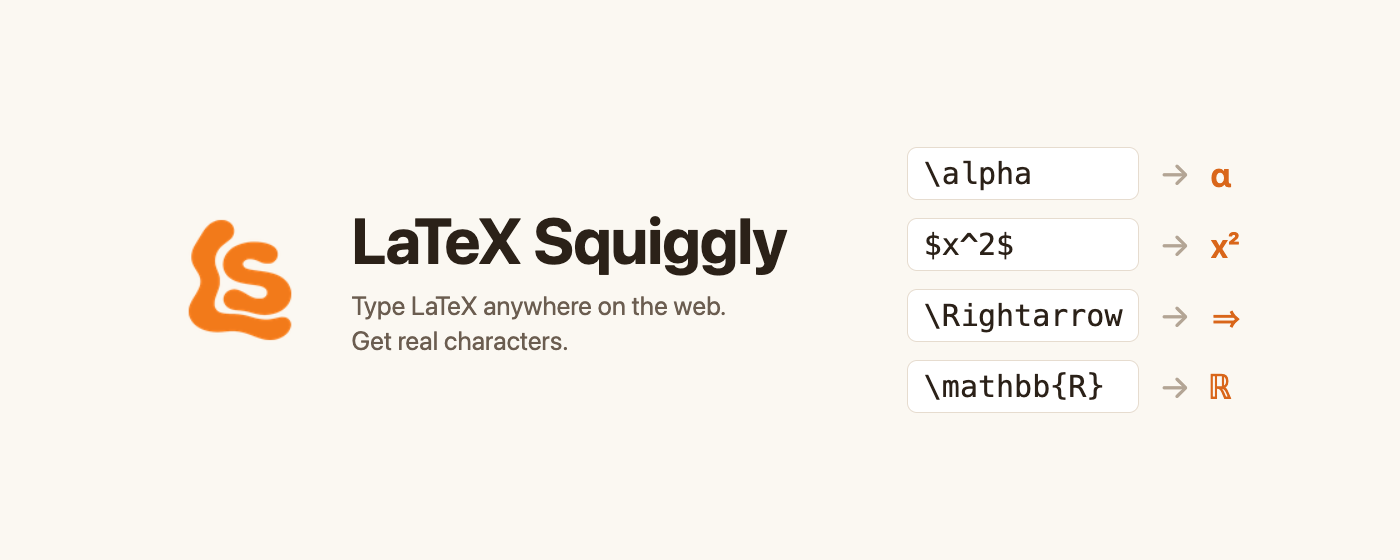
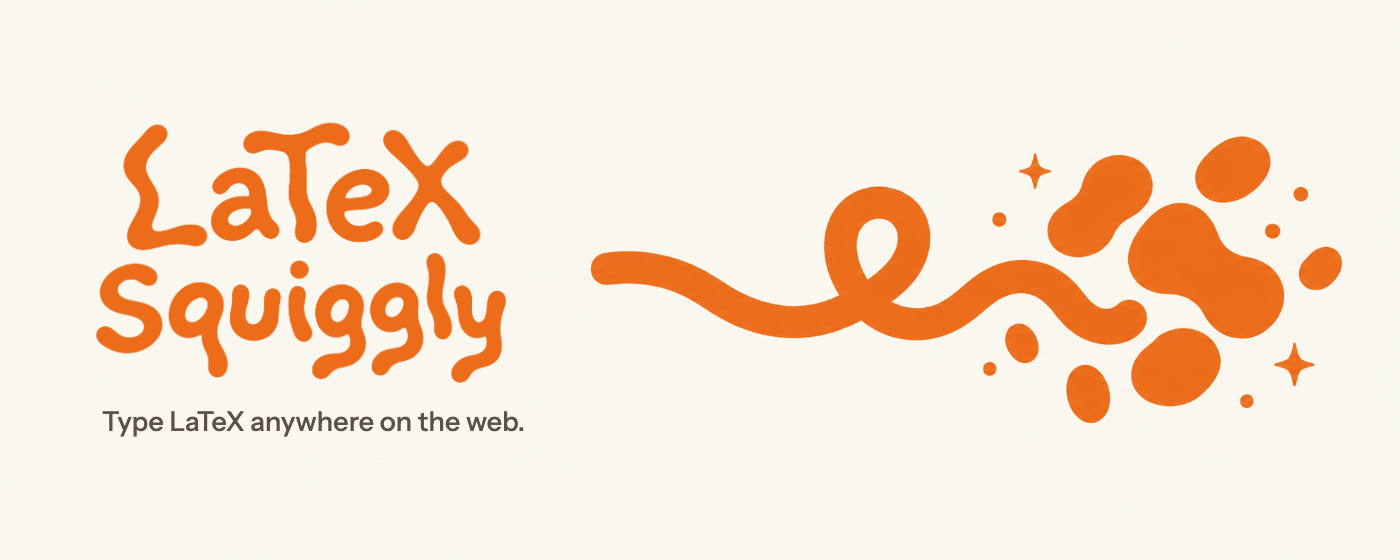
Add a kit for better store images, and a new marquee made with it
chrome/store/image-kit/ holds prompts for an image generator, the
reference images to attach to them, and the rules that keep the results
usable: no lettering in generated art, since generators garble it and a
wrong x² on a maths tool looks careless, and real screenshots only,
since the store treats invented features as misleading.

The marquee is the first result. The background is generated, and the
wordmark on it is the real one, keyed out of the app icon and inked in
the background's own orange so the two match.

Changed region(s): [[0.0614, 0.2125, 0.9829, 0.7589], [0.0614, 0.7286, 0.3686, 0.7893], [0.9214, 0.3339, 0.9521, 0.3643]]

diff --git a/chrome/store/image-kit/README.md b/chrome/store/image-kit/README.md
@@ -1,0 +1,123 @@
+# Store image kit
+
+Prompts and reference images for making better Chrome Web Store graphics with
+an image generator (ChatGPT, Gemini or Midjourney).
+
+The brand already has a strong look: the hand-drawn orange squiggly wordmark on
+warm cream paper. Everything here builds on that.
+
+## What is in this folder
+
+| Folder | Contents |
+|---|---|
+| `references/` | Images to attach to the generator as a style guide |
+| `current/` | The store images in use now, to compare against |
+| `generated/` | Put what the generator makes here |
+
+**References**
+
+| File | Attach it for |
+|---|---|
+| `1-wordmark-card.png` | The squiggly letter style and the paper colour. Attach to every prompt. |
+| `2-app-icon.png` | The same style, square |
+| `3-ls-mark.png` | The orange "LS" mark |
+| `4-product-screenshot.png` | What the product looks like, for the screenshot backgrounds |
+| `5-wordmark-transparent.png` | Not for the generator. The wordmark on a transparent background, 867 pixels wide, to place on finished images. |
+
+## Rules
+
+- **No text in generated images.** Generators garble lettering, and a wrong
+  `x²` or `\alpha` on a maths tool looks careless. Leave empty space, and add
+  the words afterwards.
+- **Screenshots stay real.** The Web Store treats screenshots of features the
+  extension does not have as misleading. Use the generator for backgrounds and
+  promo tiles only, then place the real screenshots on top.
+- **No other companies' apps.** No Gmail, Slack or ChatGPT windows or logos.
+  Using other brands can get the listing rejected. Generic windows only.
+- **Final files** must be the exact size, as 24-bit PNG or JPEG with no
+  transparency.
+- **Do not change the listing while the extension is in review.** Changing it
+  can restart the review. Swap the new images in after approval.
+
+## Style block
+
+Paste this at the start of every prompt.
+
+```
+Style: warm, friendly, hand-made. Background is flat cream paper, hex #FAF7EE, with a very faint paper grain. The only accent colour is a warm squiggle orange, hex #E2660F, with a darker shade #C2560B for depth and deep brown-black #221A12 for any dark detail. Shapes are soft, rounded, wobbly and blobby, like thick orange ink drawn with a rounded marker, matching the letterforms in the attached reference image. Flat 2D illustration, no gradients except very soft shadows, no 3D render, no glossy effects, no neon. Absolutely no text, letters, numbers, logos or watermarks anywhere in the image.
+```
+
+## 1. Marquee promo tile (1400×560)
+
+Attach: `1-wordmark-card.png`, `3-ls-mark.png`
+
+```
+A wide banner, 5:2 aspect ratio. The left 55% is completely empty cream paper, reserved for a title to be added later. On the right side, a playful illustration of transformation: a thick orange squiggly line enters from the left edge, loops once like a ribbon, and flows into a scatter of soft rounded orange blobs of varying sizes, as if ink is wriggling into new shapes. A few tiny orange sparkle marks and dots float around it. Generous margins on all sides, composition balanced toward the right, calm and uncluttered.
+```
+
+Afterwards: the wordmark in the empty left side, and "Type LaTeX anywhere on
+the web" under it.
+
+## 2. Small promo tile (440×280)
+
+Attach: `1-wordmark-card.png`, `3-ls-mark.png`
+
+```
+A small, simple tile, 11:7 aspect ratio, that must stay readable when shown tiny. Centre-left: a large empty rounded area for a logo to be added later. Around the edges: three or four chunky orange squiggles and blobs, bold and simple, nothing thin or detailed. Lots of empty cream space. Minimal and bold.
+```
+
+Afterwards: the wordmark, or the LS mark with the name. Keep it to the name
+only; anything more is unreadable at this size.
+
+## 3. Screenshot backgrounds (1280×800, make three)
+
+Attach: `1-wordmark-card.png`, `4-product-screenshot.png`
+
+```
+A 16:10 background for a product screenshot. The centre 70% of the image is a clean, empty, slightly lighter cream rectangle with softly rounded corners and a very soft shadow, where a screenshot will be placed later; leave it completely blank. Around it, in the margins only, loose orange squiggly doodles: wavy lines, small loops, rounded blobs and dots, as if drawn in the margin of a notebook. Keep the doodles light and sparse so they frame the centre without competing with it. Leave a clear empty band across the top 15% for a headline.
+```
+
+For the other two, change the doodle wording to one of:
+
+- "doodles concentrated in the bottom-left and top-right corners"
+- "a single long squiggle running along the bottom edge"
+- "small scattered dots and loops evenly around the border"
+
+Afterwards: a headline in the top band, and the real screenshot in the centre.
+
+| Screenshot | Headline |
+|---|---|
+| `screenshot-1-typing.png` | Type LaTeX. Get real characters. |
+| `screenshot-2-notice.png` | Honest when it has to approximate |
+| `screenshot-3-welcome.png` | Nothing you type leaves your computer |
+
+## 4. Squiggly symbols (optional)
+
+Attach: `1-wordmark-card.png`
+
+Use the style block, but replace its last sentence with "Only the single shape
+described below, nothing else."
+
+```
+One single symbol drawn in the exact wobbly, blobby, thick orange marker style of the letters in the attached reference: the Greek letter alpha (α). Centred on plain cream paper, lots of empty space around it.
+```
+
+One symbol per image. Swap alpha for sigma (Σ), integral (∫), infinity (∞) or
+right arrow (⇒). Asking for several at once makes the generator garble them, and
+check each one really is the right symbol. They work as accents on the tiles and
+in screenshot margins.
+
+## 5. Social sharing card (1200×630, optional)
+
+Attach: `1-wordmark-card.png`
+
+```
+A 1.91:1 social sharing card. Centre: a large empty area for a logo. Below it, a thin empty band for one line of text. Framing it, a few bold orange squiggles curling in from the corners. Calm, lots of cream space.
+```
+
+## Finishing
+
+Put the backgrounds you like in `generated/`, then ask Claude to compose the
+final images: wordmark, headlines and real screenshots placed on top, exported
+at the exact store sizes as 24-bit PNGs with no transparency, and copied into
+`chrome/store/`.
